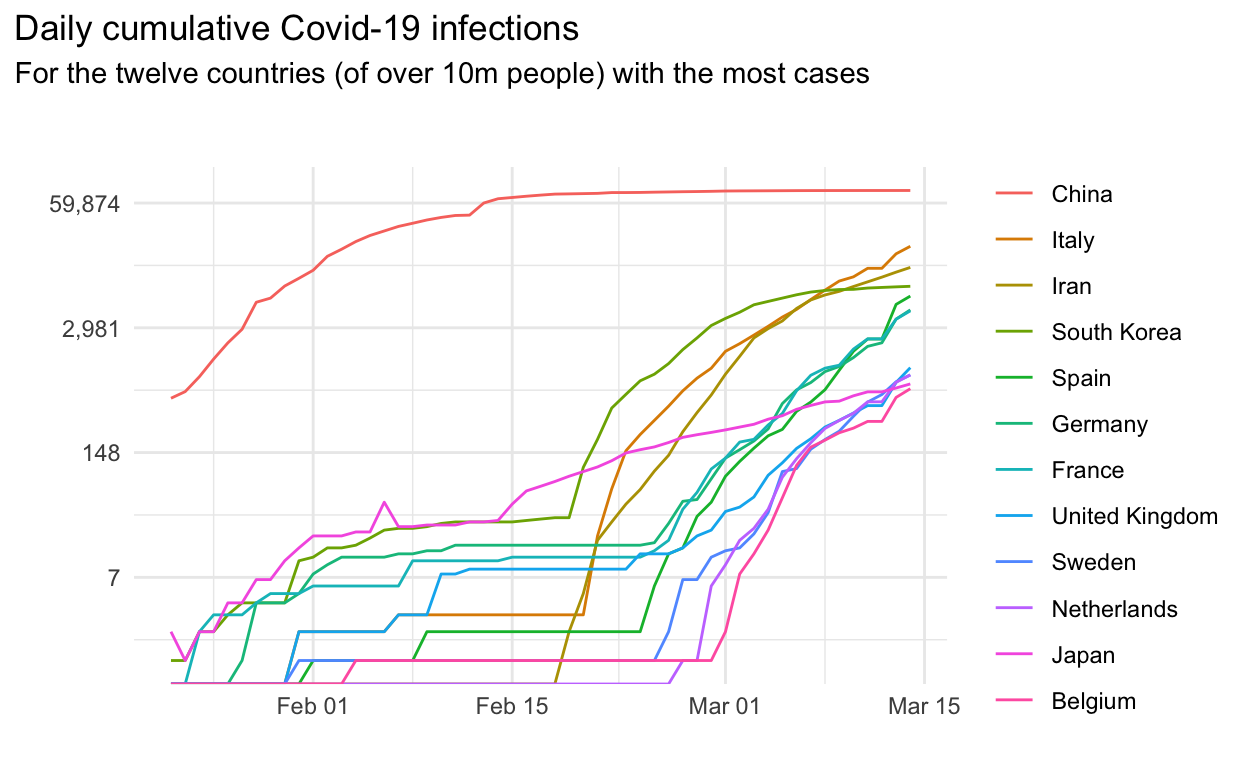
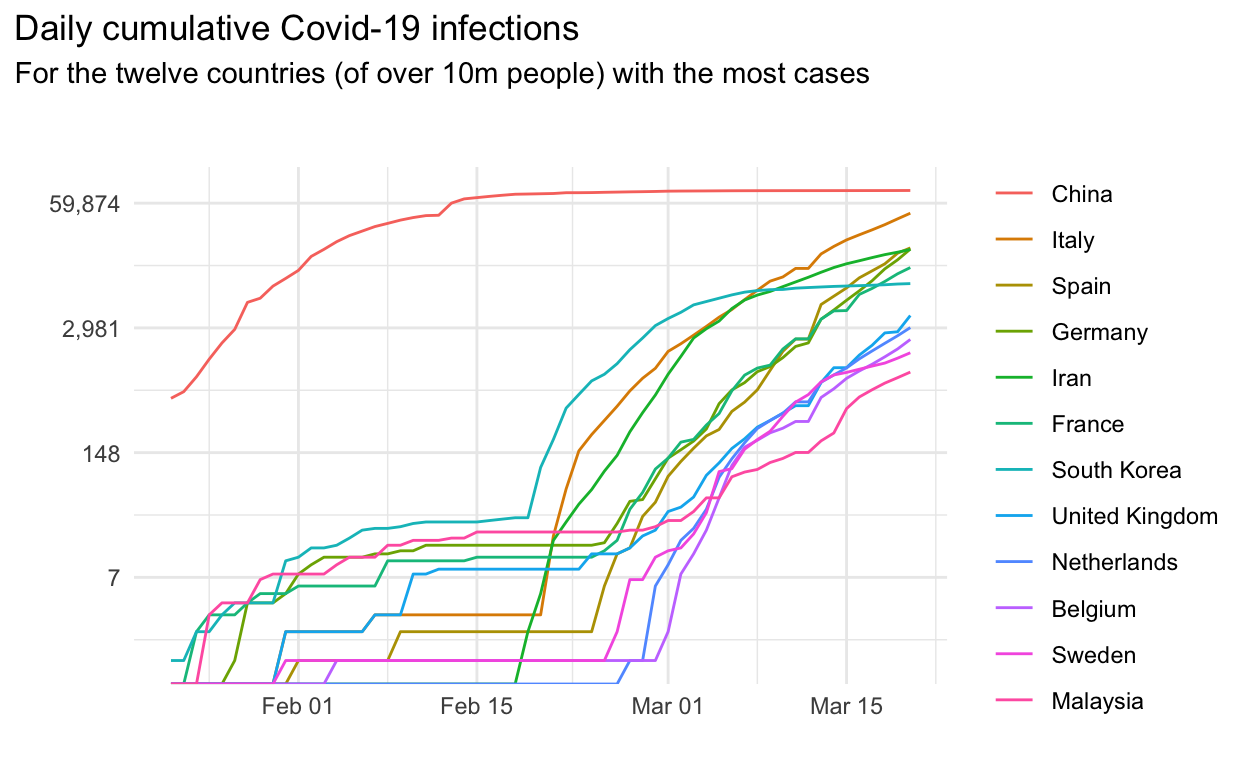
Updating covid post

diff --git a/public/posts/2020-03-14-covid/index.html b/public/posts/2020-03-14-covid/index.html
@@ -25,8 +25,8 @@
 
 
 <!--  https://schema.org/Article -->
-<meta property="article:published" itemprop="datePublished" content="2020-03-14"/>
-<meta property="article:created" itemprop="dateCreated" content="2020-03-14"/>
+<meta property="article:published" itemprop="datePublished" content="2020-03-21"/>
+<meta property="article:created" itemprop="dateCreated" content="2020-03-21"/>
 <meta name="article:author" content="Robin Penfold"/>
 
 <!--  https://developers.facebook.com/docs/sharing/webmasters#markup -->
@@ -45,7 +45,7 @@
   <!--radix_placeholder_rmarkdown_metadata-->
 
 <script type="text/json" id="radix-rmarkdown-metadata">
-{"type":"list","attributes":{"names":{"type":"character","attributes":{},"value":["title","author","date","categories","draft","slug","description","output"]}},"value":[{"type":"character","attributes":{},"value":["Tracking Covid-19"]},{"type":"list","attributes":{},"value":[{"type":"list","attributes":{"names":{"type":"character","attributes":{},"value":["name"]}},"value":[{"type":"character","attributes":{},"value":["Robin Penfold"]}]}]},{"type":"character","attributes":{},"value":["2020-03-14"]},{"type":"character","attributes":{},"value":["medical"]},{"type":"logical","attributes":{},"value":[false]},{"type":"character","attributes":{},"value":["covid"]},{"type":"character","attributes":{},"value":["Although Covid-19 is all over the news, I can't find any analysis that uses per-capita data on a log scale. For that reason, I've done this analysis myself."]},{"type":"list","attributes":{"names":{"type":"character","attributes":{},"value":["distill::distill_article"]}},"value":[{"type":"list","attributes":{"names":{"type":"character","attributes":{},"value":["self_contained","highlight"]}},"value":[{"type":"logical","attributes":{},"value":[false]},{"type":"character","attributes":{},"value":["pygments"]}]}]}]}
+{"type":"list","attributes":{"names":{"type":"character","attributes":{},"value":["title","author","date","categories","draft","slug","description","output"]}},"value":[{"type":"character","attributes":{},"value":["Tracking Covid-19"]},{"type":"list","attributes":{},"value":[{"type":"list","attributes":{"names":{"type":"character","attributes":{},"value":["name"]}},"value":[{"type":"character","attributes":{},"value":["Robin Penfold"]}]}]},{"type":"character","attributes":{},"value":["2020-03-21"]},{"type":"character","attributes":{},"value":["medical"]},{"type":"logical","attributes":{},"value":[false]},{"type":"character","attributes":{},"value":["covid"]},{"type":"character","attributes":{},"value":["Although Covid-19 is all over the news, I can't find any analysis that uses per-capita data on a log scale. For that reason, I've done this analysis myself."]},{"type":"list","attributes":{"names":{"type":"character","attributes":{},"value":["distill::distill_article"]}},"value":[{"type":"list","attributes":{"names":{"type":"character","attributes":{},"value":["self_contained","highlight"]}},"value":[{"type":"logical","attributes":{},"value":[false]},{"type":"character","attributes":{},"value":["pygments"]}]}]}]}
 </script>
 <!--/radix_placeholder_rmarkdown_metadata-->
   
@@ -1296,7 +1296,7 @@ document.addEventListener('DOMContentLoaded', function() {
 <!--radix_placeholder_front_matter-->
 
 <script id="distill-front-matter" type="text/json">
-{"title":"Tracking Covid-19","description":"Although Covid-19 is all over the news, I can't find any analysis that uses per-capita data on a log scale. For that reason, I've done this analysis myself.","authors":[{"author":"Robin Penfold","authorURL":"#","affiliation":"&nbsp;","affiliationURL":"#"}],"publishedDate":"2020-03-14T00:00:00.000+00:00","citationText":"Penfold, 2020"}
+{"title":"Tracking Covid-19","description":"Although Covid-19 is all over the news, I can't find any analysis that uses per-capita data on a log scale. For that reason, I've done this analysis myself.","authors":[{"author":"Robin Penfold","authorURL":"#","affiliation":"&nbsp;","affiliationURL":"#"}],"publishedDate":"2020-03-21T00:00:00.000+00:00","citationText":"Penfold, 2020"}
 </script>
 
 <!--/radix_placeholder_front_matter-->
@@ -1339,7 +1339,7 @@ document.addEventListener('DOMContentLoaded', function() {
   
   Robin Penfold
   
-<br/>2020-03-14
+<br/>2020-03-21
 </div>
 
 <div class="d-article">
@@ -1351,7 +1351,16 @@ document.addEventListener('DOMContentLoaded', function() {
 <p></br></p>
 <p>Whilst this chart has a log scale, there is no sense of the country’s population.</p>
 <p>At some level, of course, cases are cases: they sadly represent people suffering. In other ways, however, a thousand cases in China (with a population of over a billion) suggests a proportionately smaller problem than a thousand cases in Norway (with a population of just over 5 million).</p>
-<p>In the following chart, I show the cases per million of population, but only in instances where there have already been many cases.</p>
+<p>Furthermore, as Justin Wolfers rightly says below, both types of log analysis are will show the same growth rates.</p>
+<blockquote class="twitter-tweet">
+<p lang="en" dir="ltr">
+The vertical axis shows total cases on a log scale, so it's like graphing log(cases) on a regular scale.<br><br>A per capita graph shows log(cases/population) which = log(cases)-log(population).<br><br>Total population is barely moving day to day, so this is like log(cases)-constant.
+</p>
+— Justin Wolfers (<span class="citation" data-cites="JustinWolfers">@JustinWolfers</span>) <a href="https://twitter.com/JustinWolfers/status/1241105188011806720?ref_src=twsrc%5Etfw">March 20, 2020</a>
+</blockquote>
+<script async src="https://platform.twitter.com/widgets.js" charset="utf-8"></script>
+<p>In the following chart, I show the cases per million of population, but only in instances where there have already been many cases. (That way, the constant term noted above becomes less relevant.)</p>
+<p>To my mind, once the virus becomes (sadly) more widespread, this version of the analysis becomes ever more useful, particularly when comparing the effectiveness of action across different countries.</p>
 <p></br></p>
 <div class="layout-chunk" data-layout="l-body-outset">
 <p><img src="covid_files/figure-html5/rebased-1.png" width="624" data-distill-preview=1 /></p>

diff --git a/_posts/2020-03-14-covid/covid.html b/_posts/2020-03-14-covid/covid.html
@@ -25,8 +25,8 @@
   
   
   <!--  https://schema.org/Article -->
-  <meta property="article:published" itemprop="datePublished" content="2020-03-14"/>
-  <meta property="article:created" itemprop="dateCreated" content="2020-03-14"/>
+  <meta property="article:published" itemprop="datePublished" content="2020-03-21"/>
+  <meta property="article:created" itemprop="dateCreated" content="2020-03-21"/>
   <meta name="article:author" content="Robin Penfold"/>
   
   <!--  https://developers.facebook.com/docs/sharing/webmasters#markup -->
@@ -44,7 +44,7 @@
   <!--radix_placeholder_rmarkdown_metadata-->
   
   <script type="text/json" id="radix-rmarkdown-metadata">
-  {"type":"list","attributes":{"names":{"type":"character","attributes":{},"value":["title","author","date","categories","draft","slug","description","output"]}},"value":[{"type":"character","attributes":{},"value":["Tracking Covid-19"]},{"type":"list","attributes":{},"value":[{"type":"list","attributes":{"names":{"type":"character","attributes":{},"value":["name"]}},"value":[{"type":"character","attributes":{},"value":["Robin Penfold"]}]}]},{"type":"character","attributes":{},"value":["2020-03-14"]},{"type":"character","attributes":{},"value":["medical"]},{"type":"logical","attributes":{},"value":[false]},{"type":"character","attributes":{},"value":["covid"]},{"type":"character","attributes":{},"value":["Although Covid-19 is all over the news, I can't find any analysis that uses per-capita data on a log scale. For that reason, I've done this analysis myself.\n"]},{"type":"list","attributes":{"names":{"type":"character","attributes":{},"value":["distill::distill_article"]}},"value":[{"type":"list","attributes":{"names":{"type":"character","attributes":{},"value":["self_contained","highlight"]}},"value":[{"type":"logical","attributes":{},"value":[false]},{"type":"character","attributes":{},"value":["pygments"]}]}]}]}
+  {"type":"list","attributes":{"names":{"type":"character","attributes":{},"value":["title","author","date","categories","draft","slug","description","output"]}},"value":[{"type":"character","attributes":{},"value":["Tracking Covid-19"]},{"type":"list","attributes":{},"value":[{"type":"list","attributes":{"names":{"type":"character","attributes":{},"value":["name"]}},"value":[{"type":"character","attributes":{},"value":["Robin Penfold"]}]}]},{"type":"character","attributes":{},"value":["2020-03-21"]},{"type":"character","attributes":{},"value":["medical"]},{"type":"logical","attributes":{},"value":[false]},{"type":"character","attributes":{},"value":["covid"]},{"type":"character","attributes":{},"value":["Although Covid-19 is all over the news, I can't find any analysis that uses per-capita data on a log scale. For that reason, I've done this analysis myself.\n"]},{"type":"list","attributes":{"names":{"type":"character","attributes":{},"value":["distill::distill_article"]}},"value":[{"type":"list","attributes":{"names":{"type":"character","attributes":{},"value":["self_contained","highlight"]}},"value":[{"type":"logical","attributes":{},"value":[false]},{"type":"character","attributes":{},"value":["pygments"]}]}]}]}
   </script>
   <!--/radix_placeholder_rmarkdown_metadata-->
   
@@ -942,7 +942,7 @@
 <!--radix_placeholder_front_matter-->
 
 <script id="distill-front-matter" type="text/json">
-{"title":"Tracking Covid-19","description":"Although Covid-19 is all over the news, I can't find any analysis that uses per-capita data on a log scale. For that reason, I've done this analysis myself.","authors":[{"author":"Robin Penfold","authorURL":"#","affiliation":"&nbsp;","affiliationURL":"#"}],"publishedDate":"2020-03-14T00:00:00.000+00:00","citationText":"Penfold, 2020"}
+{"title":"Tracking Covid-19","description":"Although Covid-19 is all over the news, I can't find any analysis that uses per-capita data on a log scale. For that reason, I've done this analysis myself.","authors":[{"author":"Robin Penfold","authorURL":"#","affiliation":"&nbsp;","affiliationURL":"#"}],"publishedDate":"2020-03-21T00:00:00.000+00:00","citationText":"Penfold, 2020"}
 </script>
 
 <!--/radix_placeholder_front_matter-->
@@ -960,7 +960,7 @@
   
   Robin Penfold
   
-<br/>2020-03-14
+<br/>2020-03-21
 </div>
 
 <div class="d-article">
@@ -972,7 +972,16 @@
 <p></br></p>
 <p>Whilst this chart has a log scale, there is no sense of the country’s population.</p>
 <p>At some level, of course, cases are cases: they sadly represent people suffering. In other ways, however, a thousand cases in China (with a population of over a billion) suggests a proportionately smaller problem than a thousand cases in Norway (with a population of just over 5 million).</p>
-<p>In the following chart, I show the cases per million of population, but only in instances where there have already been many cases.</p>
+<p>Furthermore, as Justin Wolfers rightly says below, both types of log analysis are will show the same growth rates.</p>
+<blockquote class="twitter-tweet">
+<p lang="en" dir="ltr">
+The vertical axis shows total cases on a log scale, so it's like graphing log(cases) on a regular scale.<br><br>A per capita graph shows log(cases/population) which = log(cases)-log(population).<br><br>Total population is barely moving day to day, so this is like log(cases)-constant.
+</p>
+— Justin Wolfers (<span class="citation" data-cites="JustinWolfers">@JustinWolfers</span>) <a href="https://twitter.com/JustinWolfers/status/1241105188011806720?ref_src=twsrc%5Etfw">March 20, 2020</a>
+</blockquote>
+<script async src="https://platform.twitter.com/widgets.js" charset="utf-8"></script>
+<p>In the following chart, I show the cases per million of population, but only in instances where there have already been many cases. (That way, the constant term noted above becomes less relevant.)</p>
+<p>To my mind, once the virus becomes (sadly) more widespread, this version of the analysis becomes ever more useful, particularly when comparing the effectiveness of action across different countries.</p>
 <p></br></p>
 <div class="layout-chunk" data-layout="l-body-outset">
 <p><img src="covid_files/figure-html5/rebased-1.png" width="624" data-distill-preview=1 /></p>

diff --git a/public/index.html b/public/index.html
@@ -38,7 +38,7 @@
   <!--radix_placeholder_rmarkdown_metadata-->
   
   <script type="text/json" id="radix-rmarkdown-metadata">
-  {"type":"list","attributes":{"names":{"type":"character","attributes":{},"value":["title","site","listing"]}},"value":[{"type":"character","attributes":{},"value":[""]},{"type":"character","attributes":{},"value":["distill::distill_website"]},{"type":"list","attributes":{"names":{"type":"character","attributes":{},"value":["posts"]}},"value":[{"type":"character","attributes":{},"value":["2020-03-15-job-opening","2020-03-14-covid","2019-08-10-twenty-one-teams","2019-05-07-they-think-it-is-all-over","2019-04-24-FUSORC","2019-02-15-holiday","2018-10-28-package","2018-09-12-networks","2016-10-20-evaluation","2016-10-12-brexit","2016-10-09-batting"]}]}]}
+  {"type":"list","attributes":{"names":{"type":"character","attributes":{},"value":["title","site","listing"]}},"value":[{"type":"character","attributes":{},"value":[""]},{"type":"character","attributes":{},"value":["distill::distill_website"]},{"type":"list","attributes":{"names":{"type":"character","attributes":{},"value":["posts"]}},"value":[{"type":"character","attributes":{},"value":["2020-03-14-covid","2020-03-15-job-opening","2019-08-10-twenty-one-teams","2019-05-07-they-think-it-is-all-over","2019-04-24-FUSORC","2019-02-15-holiday","2018-10-28-package","2018-09-12-networks","2016-10-20-evaluation","2016-10-12-brexit","2016-10-09-batting"]}]}]}
   </script>
   <!--/radix_placeholder_rmarkdown_metadata-->
   <!--radix_placeholder_navigation_in_header-->
@@ -1639,6 +1639,19 @@ function init_posts_list() {
 <div class="posts-container posts-with-sidebar posts-apply-limit l-screen-inset">
 <div class="posts-list">
 <h1 class="posts-list-caption"></h1>
+<a href="posts/2020-03-14-covid/" class="post-preview">
+<script class="post-metadata" type="text/json">{"categories":["medical"]}</script>
+<div class="metadata">
+<div class="publishedDate">March 21, 2020</div>
+</div>
+<div class="thumbnail">
+<img data-src="posts/2020-03-14-covid/covid_files/figure-html5/rebased-1.png"/>
+</div>
+<div class="description">
+<h2>Tracking Covid-19</h2>
+<p>Although Covid-19 is all over the news, I can't find any analysis that uses per-capita data on a log scale. For that reason, I've done this analysis myself.</p>
+</div>
+</a>
 <a href="posts/2020-03-15-job-opening/" class="post-preview">
 <script class="post-metadata" type="text/json">{"categories":["job"]}</script>
 <div class="metadata">
@@ -1650,19 +1663,6 @@ function init_posts_list() {
 <div class="description">
 <h2>Work in our friendly team!</h2>
 <p>There's a great job opening in our team and I wanted to tell you more.</p>
-</div>
-</a>
-<a href="posts/2020-03-14-covid/" class="post-preview">
-<script class="post-metadata" type="text/json">{"categories":["medical"]}</script>
-<div class="metadata">
-<div class="publishedDate">March 14, 2020</div>
-</div>
-<div class="thumbnail">
-<img data-src="posts/2020-03-14-covid/covid_files/figure-html5/rebased-1.png"/>
-</div>
-<div class="description">
-<h2>Tracking Covid-19</h2>
-<p>Although Covid-19 is all over the news, I can't find any analysis that uses per-capita data on a log scale. For that reason, I've done this analysis myself.</p>
 </div>
 </a>
 <a href="posts/2019-08-10-twenty-one-teams/" class="post-preview">
